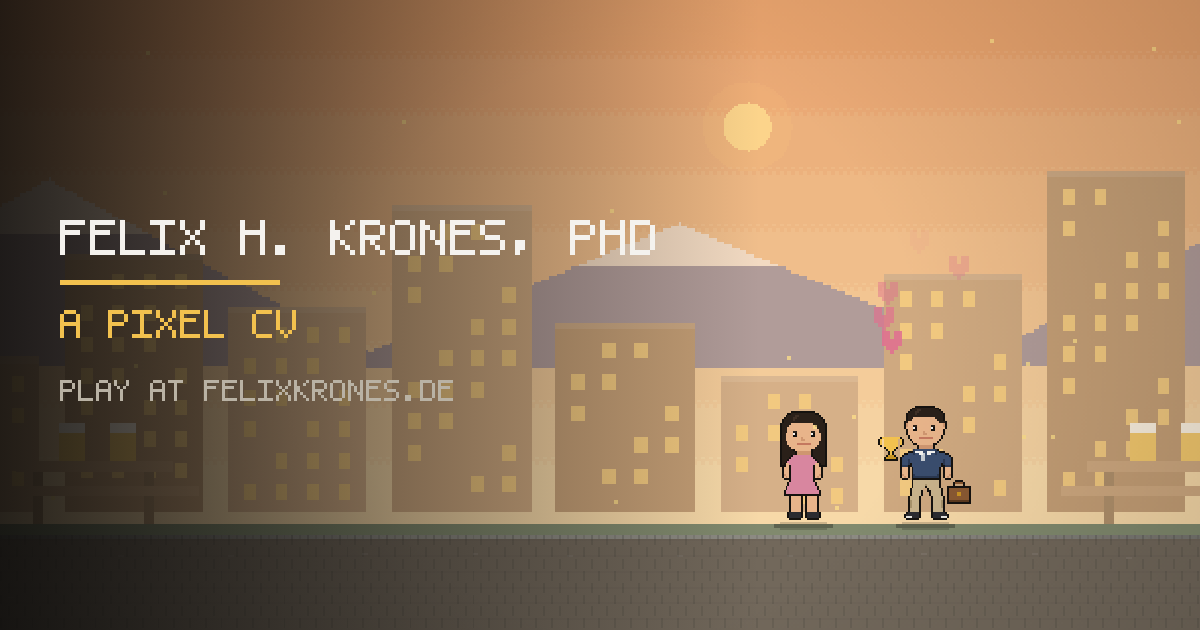
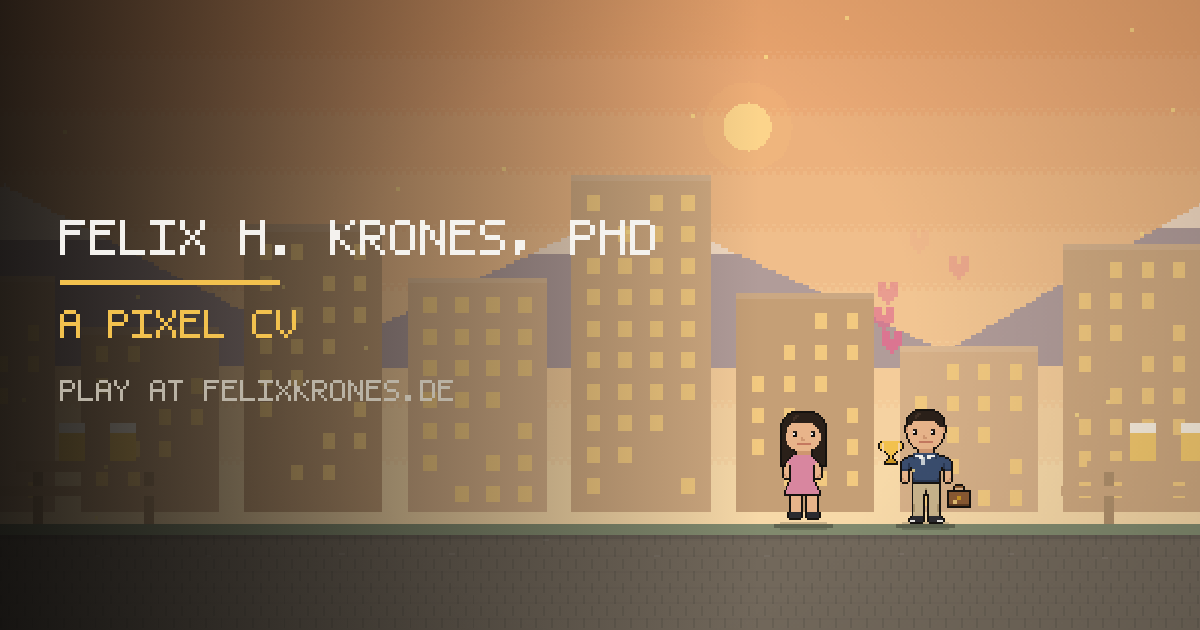
v23: more background details (place signs, school, fortress, energy, factory, DHBW, Prime Tower, Tower Bridge, Maibaum, Olympiaturm)
Claude-Session: https://claude.ai/code/session_01JTSQ5HuiQb2UM85YB5h5vC

diff --git a/index.html b/index.html
@@ -1486,6 +1486,85 @@ function londonEye(x, y, t){
   for (let k=0;k<64;k++){ r(Math.round(cx-2-k*0.5), cy+k, 2, 1, '#9aa2ae'); r(Math.round(cx+1+k*0.5), cy+k, 2, 1, '#9aa2ae'); }
 }
 
+
+/* ---------- extra details per place ---------- */
+function ortsschild(x, y, name){                      // yellow German place-name sign
+  const w = tw(name) + 12;
+  r(x+4, y-26, 2, 26, '#8a8f96'); r(x+w-6, y-26, 2, 26, '#8a8f96');
+  r(x, y-40, w, 16, '#15120f'); r(x+1, y-39, w-2, 14, '#f2c14e'); r(x+2, y-38, w-4, 12, '#15120f'); r(x+3, y-37, w-6, 10, '#f2c14e');
+  text(name, x+6, y-35, '#15120f');
+}
+function grundschule(x, y){
+  r(x, y-38, 70, 38, '#e6d9bf'); r(x, y-38, 70, 2, '#f2e8d4'); tri(x+35, y-54, 16, 80, '#a34a3a');
+  for (let k=6;k<66;k+=12){ r(x+k, y-32, 7, 8, '#6f8fa8'); r(x+k, y-18, 7, 8, '#6f8fa8'); }
+  r(x+30, y-14, 10, 14, '#6a4a30'); disc(x+35, y-45, 4, '#f4f2ee'); r(x+35, y-47, 1, 3, '#2e2a26'); r(x+35, y-45, 2, 1, '#2e2a26');
+  r(x+60, y-8, 14, 8, '#c8493f'); r(x+62, y-6, 3, 2, '#f2c14e');                                                   // school bag rack
+}
+function deFlagPole(x, y, t){
+  r(x, y-70, 2, 70, '#c6ccd2'); r(x-1, y-72, 4, 3, '#f2c14e');
+  for (let k=0;k<22;k++){ const wv = Math.round(Math.sin(t*4 + k*0.4)*1.5); r(x+2+k, y-68+wv, 1, 4, '#15120f'); r(x+2+k, y-64+wv, 1, 4, '#c8493f'); r(x+2+k, y-60+wv, 1, 4, '#f2c14e'); }
+}
+function barracks(x, y){
+  r(x, y-30, 150, 30, '#c9c6b8'); r(x, y-30, 150, 2, '#dcd9cc'); r(x-2, y-34, 154, 4, '#8a5a4a');
+  for (let k=6;k<146;k+=10) r(x+k, y-24, 6, 7, '#5a6570'), r(x+k, y-13, 6, 7, '#5a6570');
+  r(x+70, y-14, 10, 14, '#4a4a42');
+}
+function fortressGate(x, y){                          // Germersheim fortress
+  r(x, y-54, 90, 54, '#b56a4a'); r(x, y-54, 90, 2, '#c98262'); for (let k=0;k<90;k+=8) r(x+k, y-58, 5, 4, '#b56a4a');
+  for (let yy=6; yy<50; yy+=8) for (let xx=((yy/8)|0)%2*6; xx<90; xx+=12) r(x+xx, y-54+yy, 8, 1, 'rgba(0,0,0,.1)');
+  r(x+32, y-34, 26, 34, '#3a2a22'); dome(x+45, y-34, 13, '#3a2a22'); r(x+30, y-36, 30, 2, '#d8cdb3');
+  r(x+10, y-40, 6, 10, '#3a2a22'); r(x+74, y-40, 6, 10, '#3a2a22');
+}
+function pylon(x, y){
+  const g = '#8f969d';
+  for (let k=0;k<90;k++){ const w = Math.round(22 - k*0.18); r(x+11-w/2, y-k, 1, 1, g); r(x+11+w/2, y-k, 1, 1, g); if (k%10===0) for (let q=0;q<w;q+=2) r(x+11-w/2+q, y-k, 1, 1, g); }
+  r(x-8, y-70, 38, 2, g); r(x-4, y-84, 30, 2, g);
+  for (let q=0;q<W;q+=6) r(x+30+q, y-70+Math.round(Math.sin(q/60)*4)+4, 3, 1, 'rgba(60,60,60,.35)');
+}
+function windTurbine(x, y, t){
+  r(x+4, y-96, 4, 96, '#e8ecef'); disc(x+6, y-96, 3, '#dfe4e8');
+  for (let b=0;b<3;b++){ const a = t*1.8 + b*2.094; for (let s=3;s<40;s++) r(Math.round(x+6+Math.cos(a)*s), Math.round(y-96+Math.sin(a)*s), 2, 2, '#f4f6f8'); }
+}
+function carFactory(x, y){
+  r(x, y-44, 150, 44, '#b9c0c8'); for (let k=0;k<150;k+=30){ for (let q=0;q<30;q++) r(x+k+q, y-44-Math.round(q*0.4), 1, Math.round(q*0.4)+1, '#9aa2ae'); r(x+k+28, y-56, 2, 12, '#7d8894'); }
+  for (let k=8;k<142;k+=12) r(x+k, y-34, 8, 6, '#6f8fa8');
+  r(x+60, y-22, 30, 22, '#5a6068');
+  r(x+100, y-12, 40, 8, '#c6ccd2'); r(x+108, y-18, 22, 7, '#c6ccd2'); r(x+111, y-17, 7, 5, '#6f8fa8'); r(x+120, y-17, 7, 5, '#6f8fa8');   // silver car
+  disc(x+110, y-4, 4, '#2b2b30'); disc(x+132, y-4, 4, '#2b2b30');
+}
+function lectureHall(x, y, name){
+  r(x, y-50, 110, 50, '#d9dde2'); r(x, y-50, 110, 3, '#eef1f4');
+  for (let k=0;k<110;k+=10) r(x+k, y-46, 6, 40, '#8fb0c8');
+  r(x+44, y-18, 22, 18, '#4a5058'); r(x+20, y-66, tw(name, 3)+12, 14, '#c8302a'); text(name, x+26, y-63, '#f4f2ee', 3);
+}
+function smartHouse(x, y){
+  r(x, y-34, 56, 34, '#efe6d6'); tri(x+28, y-56, 22, 70, '#7a4a3a');
+  for (let k=0;k<4;k++) r(x+10+k*10, y-50+k*4, 8, 3, '#2f4a6b');                                            // solar panels
+  r(x+8, y-26, 10, 9, '#6f8fa8'); r(x+38, y-26, 10, 9, '#6f8fa8'); r(x+22, y-16, 12, 16, '#6a4a30');
+  r(x+52, y-20, 6, 8, '#9aa2ae'); r(x+53, y-18, 4, 2, '#9ae07a');                                             // smart meter
+  r(x+64, y-30, 26, 14, '#f4f2ee'); r(x+68, y-18, 4, 4, '#f4f2ee'); r(x+68, y-26, 18, 2, '#9aa2ae'); r(x+68, y-22, 12, 2, '#9aa2ae');   // chatbot bubble
+}
+function primeTower(x, y){
+  r(x, y-120, 34, 120, '#6f9a8e'); for (let yy=4; yy<118; yy+=6) r(x+2, y-120+yy, 30, 2, '#86b0a3'); r(x, y-120, 34, 3, '#9cc4b8');
+  r(x+34, y-40, 20, 40, '#5f8a7e');
+}
+function maibaum(x, y){
+  for (let k=0;k<130;k++) r(x, y-k, 5, 1, ((k+Math.floor(k/1))%16) < 8 ? '#3d6fb4' : '#f4f2ee');
+  for (const [dy, w] of [[40,26],[64,22],[88,18]]){ r(x-w/2+2, y-dy, w, 2, '#6a4a30'); for (const sx of [-w/2+2, w/2-4]) r(x+sx, y-dy-8, 6, 8, '#d6c8b4'); }
+  tri(x+2, y-142, 12, 10, '#3f8f4f'); r(x+1, y-146, 3, 4, '#f2c14e');
+}
+function olympiaturm(x, y){
+  r(x+10, y-150, 6, 150, '#c6ccd2'); r(x+4, y-126, 18, 10, '#aeb6be'); r(x+6, y-130, 14, 4, '#c6ccd2'); r(x+12, y-170, 2, 20, '#9aa2ae');
+}
+function towerBridge(x, y){
+  const st = '#cdbd98', bl = '#6f9ac0';
+  for (const tx of [x, x+100]){ r(tx, y-96, 26, 96, st); r(tx, y-96, 26, 2, '#e0d2b0'); tri(tx+13, y-116, 20, 26, '#5a6570'); for (const dx of [0, 22]) r(tx+dx, y-104, 4, 8, st);
+    for (let yy=20; yy<80; yy+=18) r(tx+10, y-96+yy, 6, 10, '#5a6570'); }
+  r(x+26, y-84, 74, 6, bl); r(x+26, y-84, 74, 1, '#9fc3ea'); for (let k=30;k<96;k+=8) r(x+k, y-78, 1, 4, bl);    // upper walkway
+  r(x+26, y-22, 74, 5, bl); r(x-30, y-22, 30, 5, bl); r(x+126, y-22, 30, 5, bl);
+  for (let k=0;k<30;k++){ r(x-30+k, y-22-Math.round(k*0.5), 1, 1, bl); r(x+155-k, y-22-Math.round(k*0.5), 1, 1, bl); }
+}
+
 const THEMES = {
   village:   { particles:{col:'#fff6c8',n:26,vx:12,vy:-6}, sky:['#86c1e6','#dcecf6'], sun:{x:380,y:30,col:'#fff4c4',glow:'#fff4c4'}, ground:{kind:'grass', top:'#5a8a3c', body:'#6b4a2e'},
     far(cam,t){ clouds(cam,.12,'#ffffff'); hills(cam,.22,'#8fb46e',70,320,3); hills(cam,.32,'#6f9a55',48,260,5); },
@@ -1493,7 +1572,7 @@ const THEMES = {
   town:      { particles:{col:'#fff6c8',n:18,vx:12,vy:-6}, sky:['#8cc0e2','#e6eef2'], sun:{x:380,y:34,col:'#fff4c4',glow:'#fff4c4'}, ground:{kind:'cobble', top:'#7c8a6a', body:'#6f6659'},
     far(cam,t){ clouds(cam,.12,'#ffffff'); hills(cam,.22,'#8fb46e',60,340,7); },
     mid(cam,t){ treeline(cam,.5,'#4f8f5a',GROUND-2,44,28,false); } },
-  airbase:  { sky:['#7d93aa','#cfd8e0'], sun:null, ground:{kind:'tarmac', top:'#6a7078', body:'#5a6068'},
+  airbase:  { sky:['#86a8c6','#dbe5ec'], sun:{x:380,y:34,col:'#fff6dc',glow:'#fff6dc'}, ground:{kind:'tarmac', top:'#6a7078', body:'#5a6068'},
     far(cam,t){ clouds(cam,.10,'#e8eef2',50,300,4); hills(cam,.18,'#8a9280',24,420,2); jetFly(((t*60)%(W+200))-100, 70); },
     mid(cam,t){ fence(-((cam*0.7)%12), GROUND-2, W+24); } },
   karlsruhe: { particles:{col:'#f4f2ee',n:14,vx:10,vy:-4}, sky:['#86bde0','#e8eef0'], sun:{x:380,y:30,col:'#fff4c4',glow:'#fff4c4'}, ground:{kind:'cobble', top:'#7a8a70', body:'#68604f'},
@@ -1532,22 +1611,22 @@ const THEMES = {
 
 /* world-anchored props per segment; x is an offset inside the segment */
 const PROPS = {
-  ober:  [[60,(x,y,t)=>halfTimbered(x,y,60,40)],[150,(x,y,t)=>barn(x,y)],[300,(x,y,t)=>cow(x,y)],[330,(x,y,t)=>cow(x,y)],[560,(x,y,t)=>church(x,y)],[700,(x,y,t)=>halfTimbered(x,y,50,34,'#7a4a3a')],[1030,(x,y,t)=>pitch(x,y,t)],[1250,(x,y,t)=>tractor(x,y)],[1340,(x,y,t)=>halfTimbered(x,y,56,38)]],
-  oster: [[40,(x,y,t)=>romanTower(x,y)],[280,(x,y,t)=>schoolGTO(x,y)],[660,(x,y,t)=>townHall(x,y)],[900,(x,y,t)=>halfTimbered(x,y,60,40,'#6f4a3a')],[1060,(x,y,t)=>halfTimbered(x,y,44,32)]],
-  germ:  [[40,(x,y,t)=>hangar(x,y,150)],[230,(x,y,t)=>controlTower(x,y)],[320,(x,y,t)=>jetParked(x,y)],[560,(x,y,t)=>windsock(x,y,t)],[600,(x,y,t)=>hangar(x,y,130)],[790,(x,y,t)=>jetParked(x,y)]],
+  ober:  [[60,(x,y,t)=>halfTimbered(x,y,60,40)],[150,(x,y,t)=>barn(x,y)],[250,(x,y,t)=>ortsschild(x,y,'OBERSCHEFFLENZ')],[340,(x,y,t)=>cow(x,y)],[450,(x,y,t)=>grundschule(x,y)],[620,(x,y,t)=>church(x,y)],[760,(x,y,t)=>halfTimbered(x,y,50,34,'#7a4a3a')],[1030,(x,y,t)=>pitch(x,y,t)],[1250,(x,y,t)=>tractor(x,y)],[1340,(x,y,t)=>halfTimbered(x,y,56,38)]],
+  oster: [[40,(x,y,t)=>romanTower(x,y)],[170,(x,y,t)=>ortsschild(x,y,'OSTERBURKEN')],[280,(x,y,t)=>schoolGTO(x,y)],[660,(x,y,t)=>townHall(x,y)],[900,(x,y,t)=>halfTimbered(x,y,60,40,'#6f4a3a')],[1060,(x,y,t)=>halfTimbered(x,y,44,32)]],
+  germ:  [[40,(x,y,t)=>hangar(x,y,150)],[230,(x,y,t)=>controlTower(x,y)],[290,(x,y,t)=>deFlagPole(x,y,t)],[340,(x,y,t)=>jetParked(x,y)],[470,(x,y,t)=>ortsschild(x,y,'GERMERSHEIM')],[570,(x,y,t)=>windsock(x,y,t)],[620,(x,y,t)=>barracks(x,y)],[830,(x,y,t)=>fortressGate(x,y)]],
   ka1:   [[40,(x,y,t)=>schloss(x,y)],[260,(x,y,t)=>tram(x,y,t)],[420,(x,y,t)=>pyramid(x,y)],[640,(x,y,t)=>kitSign(x,y)],[720,(x,y,t)=>brickHall(x,y,120,50)]],
   ral:   [[60,(x,y,t)=>brickHall(x,y)],[240,(x,y,t)=>belltower(x,y)],[330,(x,y,t)=>usFlag(x,y,t)],[520,(x,y,t)=>pickup(x,y)],[620,(x,y,t)=>brickHall(x,y,100,60)]],
-  ka2:   [[40,(x,y,t)=>brickHall(x,y,120,50)],[240,(x,y,t)=>tram(x,y,t)],[500,(x,y,t)=>kitSign(x,y)],[580,(x,y,t)=>halfTimbered(x,y,60,44,'#6f4a3a')],[860,(x,y,t)=>schloss(x,y)],[1120,(x,y,t)=>tram(x,y,t)]],
-  zh:    [[60,(x,y,t)=>ethBuilding(x,y-16)],[420,(x,y,t)=>grossmunster(x,y-16)],[700,(x,y,t)=>tram(x,y,t)],[1050,(x,y,t)=>cityRowLocal(x,y)],[1300,(x,y,t)=>tram(x,y,t)]],
+  ka2:   [[40,(x,y,t)=>brickHall(x,y,120,50)],[240,(x,y,t)=>tram(x,y,t)],[500,(x,y,t)=>kitSign(x,y)],[580,(x,y,t)=>halfTimbered(x,y,60,44,'#6f4a3a')],[860,(x,y,t)=>schloss(x,y)],[1050,(x,y,t)=>pylon(x,y)],[1120,(x,y,t)=>windTurbine(x,y,t)],[1180,(x,y,t)=>carFactory(x,y)],[1360,(x,y,t)=>lectureHall(x,y,'DHBW')],[1690,(x,y,t)=>smartHouse(x,y)],[1850,(x,y,t)=>tram(x,y,t)]],
+  zh:    [[60,(x,y,t)=>ethBuilding(x,y-16)],[420,(x,y,t)=>grossmunster(x,y-16)],[640,(x,y,t)=>tram(x,y,t)],[880,(x,y,t)=>primeTower(x,y)],[1050,(x,y,t)=>cityRowLocal(x,y)],[1300,(x,y,t)=>tram(x,y,t)]],
   it:    [[60,(x,y,t)=>duomo(x,y)],[300,(x,y,t)=>vespa(x,y)],[480,(x,y,t)=>halfTimbered(x,y,60,44,'#c9432f')]],
   fi:    [[80,(x,y,t)=>saunaHut(x,y)],[420,(x,y,t)=>saunaHut(x,y)]],
   ie:    [[80,(x,y,t)=>roundTower(x,y)],[260,(x,y,t)=>sheep(x,y)],[300,(x,y,t)=>sheep(x,y)],[470,(x,y,t)=>pub(x,y)]],
   sa:    [[40,(x,y,t)=>palm(x,y)],[160,(x,y,t)=>kingdomTower(x,y)],[460,(x,y,t)=>palm(x,y)],[520,(x,y,t)=>palm(x,y)]],
   ox:    [[40,(x,y,t)=>radcliffe(x,y)],[200,(x,y,t)=>collegeFront(x,y)],[400,(x,y,t)=>bicycle(x,y)],[430,(x,y,t)=>bicycle(x,y)],[640,(x,y,t)=>tomTower(x,y)],[780,(x,y,t)=>punt(x,y,t)],
           [900,(x,y,t)=>bridgeOfSighs(x,y)],[1120,(x,y,t)=>magdalenTower(x,y)],[1250,(x,y,t)=>collegeFront(x,y)],[1470,(x,y,t)=>bicycle(x,y)],[1560,(x,y,t)=>spires(x,y)],[1760,(x,y,t)=>radcliffe(x,y)],[1940,(x,y,t)=>tomTower(x,y)],[2100,(x,y,t)=>bicycle(x,y)]],
-  lon:   [[60,(x,y,t)=>bigBen(x,y)],[300,(x,y,t)=>phoneBox(x,y)],[400,(x,y,t)=>doubleDecker(x,y,t)],[620,(x,y,t)=>londonEye(x,y,t)],[980,(x,y,t)=>phoneBox(x,y)],[1080,(x,y,t)=>doubleDecker(x,y,t)],[1300,(x,y,t)=>phoneBox(x,y)]],
-  zh2:   [[60,(x,y,t)=>grossmunster(x,y-16)],[380,(x,y,t)=>tram(x,y,t)],[700,(x,y,t)=>cityRowLocal(x,y)],[1050,(x,y,t)=>ethBuilding(x,y-16)],[1350,(x,y,t)=>tram(x,y,t)]],
-  muc:   [[40,(x,y,t)=>frauenkirche(x,y)],[260,(x,y,t)=>beerTable(x,y)],[620,(x,y,t)=>podium(x,y)],[660,(x,y,t)=>poster(x,y)],[800,(x,y,t)=>frauenkirche(x,y)],[1100,(x,y,t)=>beerTable(x,y)]],
+  lon:   [[60,(x,y,t)=>bigBen(x,y)],[300,(x,y,t)=>phoneBox(x,y)],[400,(x,y,t)=>doubleDecker(x,y,t)],[620,(x,y,t)=>londonEye(x,y,t)],[960,(x,y,t)=>phoneBox(x,y)],[1080,(x,y,t)=>towerBridge(x,y)],[1360,(x,y,t)=>doubleDecker(x,y,t)]],
+  zh2:   [[60,(x,y,t)=>grossmunster(x,y-16)],[330,(x,y,t)=>tram(x,y,t)],[560,(x,y,t)=>primeTower(x,y)],[700,(x,y,t)=>cityRowLocal(x,y)],[1050,(x,y,t)=>ethBuilding(x,y-16)],[1350,(x,y,t)=>tram(x,y,t)]],
+  muc:   [[40,(x,y,t)=>frauenkirche(x,y)],[260,(x,y,t)=>beerTable(x,y)],[420,(x,y,t)=>maibaum(x,y)],[620,(x,y,t)=>podium(x,y)],[660,(x,y,t)=>poster(x,y)],[800,(x,y,t)=>frauenkirche(x,y)],[980,(x,y,t)=>olympiaturm(x,y)],[1100,(x,y,t)=>beerTable(x,y)]],
   end:   [[40,(x,y,t)=>beerTable(x,y)]]
 };
 function cityRowLocal(x, y){ for (let i=0;i<4;i++){ const h = 40+((i*37)%30); r(x+i*38, y-h, 32, h, '#cfc7b5'); for (let yy=6; yy<h-6; yy+=10) for (let xx=4; xx<28; xx+=8) r(x+i*38+xx, y-h+yy, 4, 5, '#6b7a86'); } }
